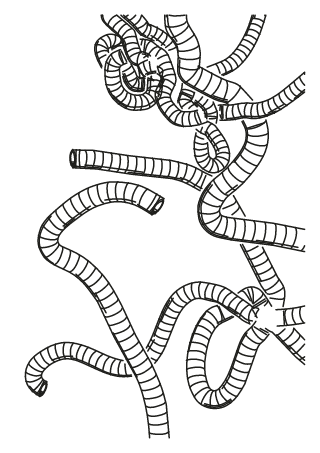
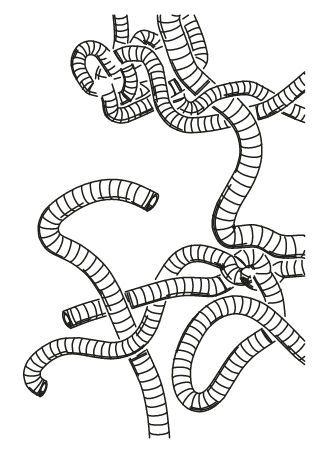
Fix occlusion holes: tubes no longer interpenetrate at close crossings
The reserved-paper haloing had a clear failure: wherever a pair of hoses
crossed twice in quick succession, hugged through a crossing, or a hose
knotted with itself, the overlap between the capped crossing windows was
occluded by neither side — both tubes drew and one hose's rings floated
across the other's face.

Three-part fix, source to sink:
- Growth-time self-avoidance: a hose now treats its own tail (beyond the
  last few radii) as a neighbour and veers off when running along it, so
  tight self-knots — the case the per-crossing machinery genuinely can't
  tell a clean story about — stop forming. Avoidance also now steers away
  from the deepest ALONG-running neighbour rather than the single nearest
  point, which a transversal (crossing-bound) neighbour could mask.
- Pair-contact resolution replaces the graze-only occluders: every contact
  run between two hoses is resolved end to end. Runs with crossings are
  split at the midpoints between them and each segment continues its own
  crossing's weave winner, so the swap lands in the reserved paper between
  windows; crossing-free grazes keep the fatter-on-top rule.
- Bend/ring tuning shown up by the fix: minimum bend opens from 1.6r to
  1.8r (rings stop converging into a sunburst hub on the tightest curls)
  and ring survivors must keep 45% of their sweep (cut shards no longer
  stack into scribbles at window boundaries).

Goldens regenerated (vent-hoses cases only — gallery re-eyeballed across
[…]

Changed region(s): [[0.0625, 0.0309, 0.9688, 0.9581]]

diff --git a/packages/core/src/vent-hoses/occlude.ts b/packages/core/src/vent-hoses/occlude.ts
@@ -179,37 +179,51 @@ export function buildOccluders(
 }
 
 /**
- * Graze occluders: two hoses can run close enough to overlap visually
- * WITHOUT their centerlines ever intersecting — no crossing, no occluder,
- * and one hose's rings float across the other's face, the worst artifact a
- * packed pile can produce. The separation pass keeps grazes rare, but a
- * genuinely over-full sheet can't resolve them all geometrically, so any
- * remaining contact run gets the physical treatment: the fatter hose simply
- * lies on top along that stretch, and the run is occluded exactly like a
- * crossing window.
+ * Pair-contact occluders. Two hoses can overlap visually along a RUN, not
+ * just at a crossing point: a graze whose centerlines never intersect, or
+ * the stretch between two nearby crossings of the same pair — the
+ * per-crossing walk windows are deliberately capped short of each other so
+ * alternating crossings don't erase both passes, which leaves the middle of
+ * a deep overlap covered by neither. Un-occluded overlap is the worst
+ * artifact this module can produce: both tubes draw and the rings of one
+ * float across the face of the other.
+ *
+ * So every contact run (centerline distance inside rA+rB+gap+reach) gets
+ * resolved end to end. Runs with no crossing get the physical treatment —
+ * the fatter hose simply lies on top. Runs containing crossings are split
+ * at the midpoints between consecutive crossings, and each segment's top
+ * hose is whoever the weave put on top at its nearest crossing, so the
+ * over/under story stays exactly the solved weave and the swap lands in
+ * the reserved paper between the two windows.
  */
 export function buildGrazeOccluders(
   strands: HoseStrand[],
   crossings: Crossing[],
+  aOnTop: boolean[],
   byStrand: Occluder[][],
   o: OccludeOptions
 ): void {
-  // Per ordered pair, the crossing arcs on each side — a graze run adjacent
-  // to a genuine crossing is that crossing's window, already handled.
+  // Per ordered pair: crossing arcs on each side plus who won, sorted by
+  // the arc along the pair's first strand.
   const pairKey = (a: number, b: number) => a * strands.length + b;
-  const crossArcs = new Map<number, { a: number[]; b: number[] }>();
+  const crossArcs = new Map<number, { a: number; b: number; top: number }[]>();
   for (const c of crossings) {
+    if (c.a.strand === c.b.strand) continue; // self pairs stay walk-window-only
     const lo = Math.min(c.a.strand, c.b.strand);
     const hi = Math.max(c.a.strand, c.b.strand);
     const key = pairKey(lo, hi);
     let entry = crossArcs.get(key);
     if (!entry) {
-      entry = { a: [], b: [] };
+      entry = [];
       crossArcs.set(key, entry);
     }
-    entry.a.push(c.a.strand === lo ? c.a.arc : c.b.arc);
-    entry.b.push(c.a.strand === lo ? c.b.arc : c.a.arc);
+    entry.push({
+      a: c.a.strand === lo ? c.a.arc : c.b.arc,
+      b: c.a.strand === lo ? c.b.arc : c.a.arc,
+      top: aOnTop[c.id] ? c.a.strand : c.b.strand,
+    });
   }
+  for (const entry of crossArcs.values()) entry.sort((p, q) => p.a - q.a);
 
   for (let ka = 0; ka < strands.length; ka++) {
     for (let kb = ka + 1; kb < strands.length; kb++) {
@@ -256,16 +270,47 @@ export function buildGrazeOccluders(
         nearB[i] = bestIdx;
       }
 
-      // Contact runs along A, kept clear of this pair's crossings.
+      // Contact runs along A, each resolved end to end.
       const pairBand = sa.r + sb.r;
-      const entry = crossArcs.get(pairKey(ka, kb));
-      const clearOfCrossings = (a0: number, a1: number): boolean => {
-        if (!entry) return true;
-        for (const ca of entry.a) {
-          if (ca > a0 - 2 * pairBand && ca < a1 + 2 * pairBand) return false;
+      const entry = crossArcs.get(pairKey(ka, kb)) ?? [];
+
+      /** Emit one resolved segment [from..to] (A indices) with `top` on top. */
+      const emitSegment = (from: number, to: number, top: number, endPad: number) => {
+        const segA0 = sa.arc[from];
+        const segA1 = sa.arc[to];
+        if (segA1 - segA0 < 0.5 * pairBand) return;
+        const aWins = top === ka;
+        const winner = aWins ? sa : sb;
+        const winnerIdx = aWins ? ka : kb;
+        const loserIdx = aWins ? kb : ka;
+        let w0 = segA0;
+        let w1 = segA1;
+        if (!aWins) {
+          // Map the segment onto B via the nearest-point correspondence.
+          let bLo = Infinity;
+          let bHi = -Infinity;
+          for (let j = from; j <= to; j++) {
+            const bj = nearB[j];
+            if (bj < 0) continue;
+            const arcJ = sb.arc[bj];
+            if (arcJ < bLo) bLo = arcJ;
+            if (arcJ > bHi) bHi = arcJ;
+          }
+          if (!isFinite(bLo)) return;
+          w0 = bLo;
+          w1 = bHi;
         }
-        return true;
+        byStrand[loserIdx].push(
+          occluderFromWindow(
+            winner,
+            winnerIdx,
+            Math.max(0, w0 - endPad),
+            Math.min(winner.len, w1 + endPad),
+            winner.r + o.gap + o.inflatePx
+          )
+        );
       };
+
       let runStart = -1;
       for (let i = 0; i <= na; i++) {
         const inContact = i < na && nearB[i] >= 0;
@@ -277,39 +322,29 @@ export function buildGrazeOccluders(
           const a0 = sa.arc[from];
           const a1 = sa.arc[to];
           if (a1 - a0 < 1.5 * pairBand) continue;
-          if (!clearOfCrossings(a0, a1)) continue;
-          // The fatter hose lies on top (tie: the earlier strand).
-          const aWins = sa.r >= sb.r;
-          const winner = aWins ? sa : sb;
-          const winnerIdx = aWins ? ka : kb;
-          const loserIdx = aWins ? kb : ka;
-          let w0 = a0;
-          let w1 = a1;
-          if (!aWins) {
-            // Map the run onto B via the nearest-point correspondence.
-            let bLo = Infinity;
-            let bHi = -Infinity;
-            for (let j = from; j <= to; j++) {
-              const bj = nearB[j];
-              if (bj < 0) continue;
-              const arcJ = sb.arc[bj];
-              if (arcJ < bLo) bLo = arcJ;
-              if (arcJ > bHi) bHi = arcJ;
-            }
-            if (!isFinite(bLo)) continue;
-            w0 = bLo;
-            w1 = bHi;
+
+          // Crossings of this pair inside (or hard against) the run.
+          const inRun = entry.filter((c) => c.a > a0 - pairBand && c.a < a1 + pairBand);
+          if (inRun.length === 0) {
+            // Pure graze: the fatter hose lies on top (tie: earlier strand).
+            emitSegment(from, to, sa.r >= sb.r ? ka : kb, 0.75 * pairBand);
+            continue;
           }
-          const pad = 0.75 * pairBand;
-          byStrand[loserIdx].push(
-            occluderFromWindow(
-              winner,
-              winnerIdx,
-              Math.max(0, w0 - pad),
-              Math.min(winner.len, w1 + pad),
-              winner.r + o.gap + o.inflatePx
-            )
-          );
+
+          // Split the run at midpoints between consecutive crossings; each
+          // segment continues its own crossing's winner.
+          let segFrom = from;
+          for (let ci = 0; ci < inRun.length; ci++) {
+            const boundary =
+              ci + 1 < inRun.length ? (inRun[ci].a + inRun[ci + 1].a) / 2 : Infinity;
+            let segTo = to;
+            if (isFinite(boundary)) {
+              segTo = segFrom;
+              while (segTo + 1 <= to && sa.arc[segTo + 1] <= boundary) segTo++;
+            }
+            emitSegment(segFrom, segTo, inRun[ci].top, 0.35 * pairBand);
+            segFrom = Math.min(segTo + 1, to);
+          }
         }
       }
     }
@@ -460,7 +495,7 @@ export function occludeMarks(
       mark.layer === 'shade'
         ? Math.max(minRun, 1.2 * r)
         : mark.layer === 'ring'
-          ? Math.max(4.5, 0.32 * origLen)
+          ? Math.max(4.5, 0.45 * origLen)
           : minRun;
     let runPts: Point[] = [];
     let runArcs: number[] = [];

diff --git a/packages/core/src/vent-hoses/centerline.ts b/packages/core/src/vent-hoses/centerline.ts
@@ -18,7 +18,9 @@ import { clamp, lerp } from '../lib/math.js';
  * hose still bends on a radius comfortably larger than its own.
  */
 
-export const BEND_FACTOR = 1.6;
+// 1.8 keeps the inside of the tightest bend at 0.8r — rings fan through it
+// without converging into a sunburst hub (they do below ~0.7r).
+export const BEND_FACTOR = 1.8;
 
 export interface GrowOptions {
   /** Drawable box (the margin frame). */
@@ -61,6 +63,8 @@ interface FieldPoint {
   /** Unit travel direction at this point. */
   tx: number;
   ty: number;
+  /** Arc position along the owning hose (own-tail fields only). */
+  arc?: number;
 }
 
 /**
@@ -88,19 +92,39 @@ class HoseField {
     arr.push(p);
   }
 
-  nearest(x: number, y: number, within: number): { p: FieldPoint; d: number } | null {
+  /**
+   * The deepest ALONG-RUNNING violation near (x, y): among field points
+   * within `within` whose travel direction is near-parallel to `(hx, hy)`,
+   * the one with the largest `threshold(q) - distance` deficit. Transversal
+   * points never count — a crossing in the making must not mask (or be
+   * masked by) a parallel neighbour behind it.
+   */
+  worstAlong(
+    x: number,
+    y: number,
+    within: number,
+    hx: number,
+    hy: number,
+    threshold: (q: FieldPoint) => number,
+    skip?: (q: FieldPoint) => boolean
+  ): { p: FieldPoint; d: number } | null {
     const cx = Math.floor(x / this.cell);
     const cy = Math.floor(y / this.cell);
     const reach = Math.max(1, Math.ceil(within / this.cell));
     let best: FieldPoint | null = null;
-    let bestD = within;
+    let bestD = 0;
+    let bestDeficit = 0;
     for (let gy = cy - reach; gy <= cy + reach; gy++) {
       for (let gx = cx - reach; gx <= cx + reach; gx++) {
         const arr = this.buckets.get(`${gx},${gy}`);
         if (!arr) continue;
         for (const q of arr) {
+          if (skip && skip(q)) continue;
+          if (Math.abs(hx * q.tx + hy * q.ty) <= 0.72) continue;
           const d = Math.hypot(q.x - x, q.y - y);
-          if (d < bestD) {
+          const deficit = threshold(q) - d;
+          if (deficit > bestDeficit) {
+            bestDeficit = deficit;
             bestD = d;
             best = q;
           }
@@ -189,6 +213,7 @@ export function growHoses(o: GrowOptions): GrownHose[] {
     const maxSteps = Math.ceil((targetLen / ds) * 2.5) + 500;
 
     const pts: Point[] = [{ x, y }];
+    const own = new HoseField(Math.max(8, 2.5 * r));
     let arcPos = 0;
     for (let step = 0; step < maxSteps; step++) {
       const exitPhase = !cuffEnd && arcPos >= 0.72 * targetLen;
@@ -205,20 +230,32 @@ export function growHoses(o: GrowOptions): GrownHose[] {
         want = steer(want, target, 0.2);
       } else {
         // Feel the pile: veer off a neighbour we're running along; leave a
-        // transversal approach alone — that's a crossing in the making.
-        const near = field.nearest(x, y, r + o.radiusMax + o.clearance + 6);
-        if (near) {
-          const thr = r + near.p.r + o.clearance + 4;
-          if (near.d < thr) {
-            const hx = Math.cos(theta);
-            const hy = Math.sin(theta);
-            const along = Math.abs(hx * near.p.tx + hy * near.p.ty);
-            if (along > 0.72) {
-              const away = Math.atan2(y - near.p.y, x - near.p.x);
-              want = steer(want, away, 0.4 * Math.min(1, (thr - near.d) / thr + 0.35));
-            }
-          }
-        }
+        // transversal approach alone — that's a crossing in the making. The
+        // hose's OWN tail counts as a neighbour too (ignoring the last few
+        // radii behind the tip): a wanderer that coils back onto itself
+        // osculates its own earlier pass, and self-hugs are the one overlap
+        // the downstream occlusion machinery genuinely can't tell a clean
+        // story about.
+        const hx = Math.cos(theta);
+        const hy = Math.sin(theta);
+        const thr = (q: FieldPoint) => r + q.r + o.clearance + 4;
+        const veerOff = (p: FieldPoint, d: number) => {
+          const t = thr(p);
+          const away = Math.atan2(y - p.y, x - p.x);
+          want = steer(want, away, 0.4 * Math.min(1, (t - d) / t + 0.35));
+        };
+        const near = field.worstAlong(x, y, r + o.radiusMax + o.clearance + 6, hx, hy, thr);
+        if (near) veerOff(near.p, near.d);
+        const nearSelf = own.worstAlong(
+          x,
+          y,
+          2 * r + o.clearance + 6,
+          hx,
+          hy,
+          thr,
+          (q) => arcPos - (q.arc ?? 0) < 5 * r
+        );
+        if (nearSelf) veerOff(nearSelf.p, nearSelf.d);
         // Containment: ease back toward the page centre as the tip nears the
         // frame, hard once it strays past it — mid-run hoses stay on-page.
         const d = Math.min(x - o.x0, o.x1 - x, y - o.y0, o.y1 - y);
@@ -236,6 +273,7 @@ export function growHoses(o: GrowOptions): GrownHose[] {
       y += Math.sin(theta) * ds;
       arcPos += ds;
       pts.push({ x, y });
+      own.add({ x, y, r, tx: Math.cos(theta), ty: Math.sin(theta), arc: arcPos });
 
       if (exitPhase) {
         const outBy = Math.max(o.x0 - x, x - o.x1, o.y0 - y, y - o.y1);

diff --git a/packages/core/src/vent-hoses/index.ts b/packages/core/src/vent-hoses/index.ts
@@ -169,7 +169,7 @@ export function generateVentHoses(options: VentHosesOptions): FlowLinesResult {
   // 4. Hidden-line removal + contact shadows.
   const occOpts = { gap, inflatePx, penWidth: o.penWidth, shadowHatch: o.shadowHatch };
   const occluders = buildOccluders(strands, crossings, weave.aOnTop, occOpts);
-  buildGrazeOccluders(strands, crossings, occluders, occOpts);
+  buildGrazeOccluders(strands, crossings, weave.aOnTop, occluders, occOpts);
   marks.push(...contactShadows(strands, crossings, weave.aOnTop, occOpts));
   marks = occludeMarks(marks, strands, occluders, occOpts);
 
